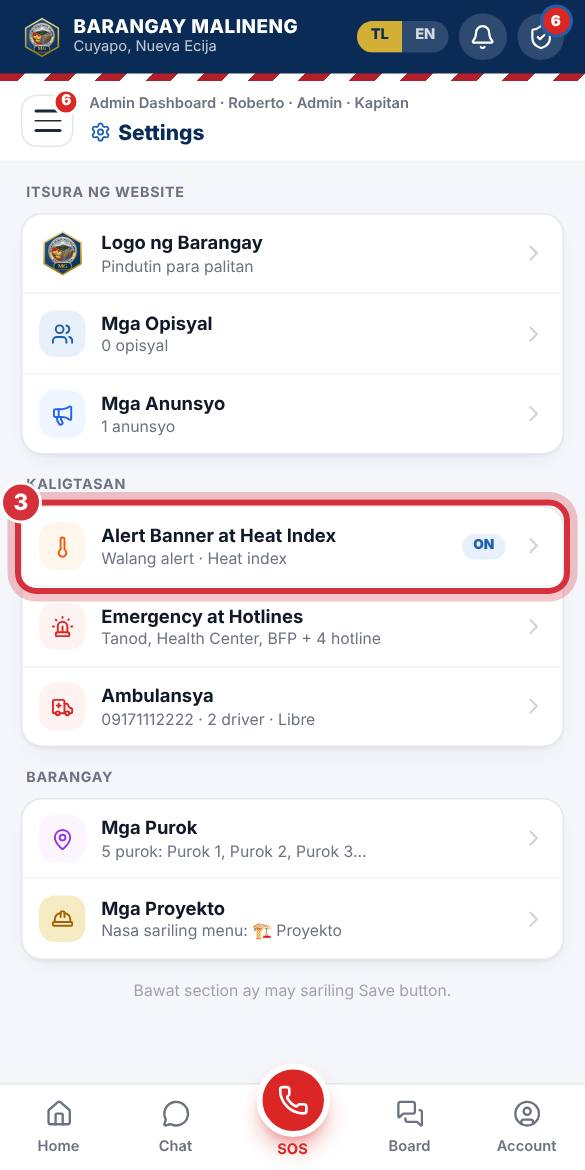
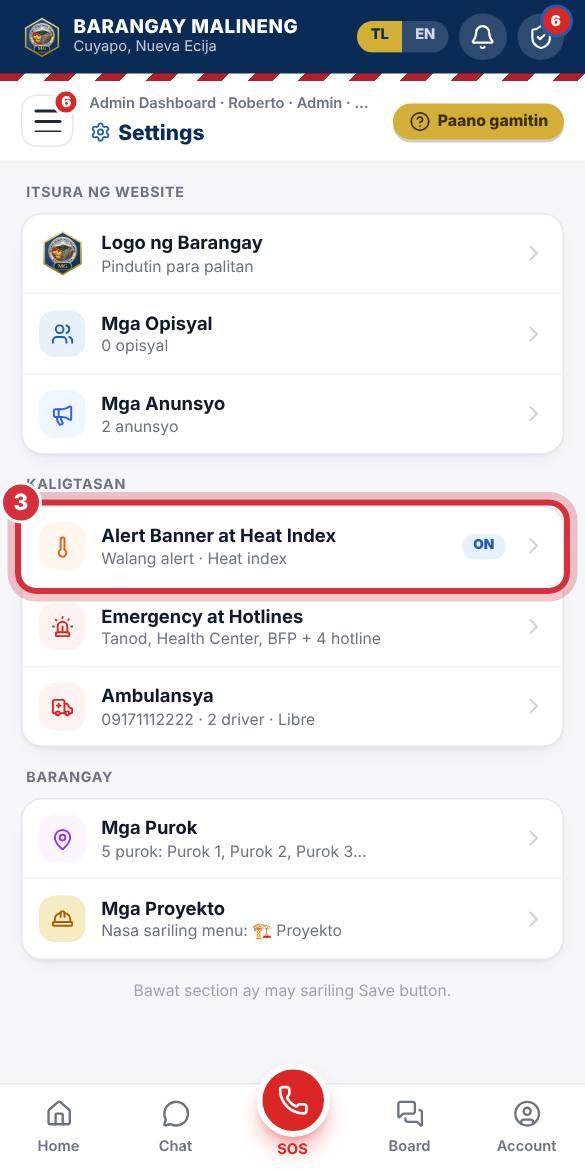
Home announcements: optional end date, and ended ones disappear from the dashboard
Claude-Session: https://claude.ai/code/session_013F6BoHnbdQ1Ng6Eh2JznKS

diff --git a/malineng-web/src/components/admin/AdminSettings.tsx b/malineng-web/src/components/admin/AdminSettings.tsx
@@ -161,7 +161,9 @@ function OfficialsSection({ settings, onBack }: { settings: Settings; onBack: ()
 function AnnouncementsSection({ settings, onBack }: { settings: Settings; onBack: () => void }) {
   const [list, setList] = useState(settings.announcements);
   const { saving, run } = useSaver(onBack);
-  const save = () => run(() => saveSettings({ announcements: list.filter((a) => a.title.trim()) }, "Mga Anunsyo"), "Na-save ang Mga Anunsyo.");
+  // An empty end date is not saved at all (the announcement then stays until it is removed).
+  const clean = (a: Settings["announcements"][number]) => ({ title: a.title, body: a.body, date: a.date, ...(a.until ? { until: a.until } : {}) });
+  const save = () => run(() => saveSettings({ announcements: list.filter((a) => a.title.trim()).map(clean) }, "Mga Anunsyo"), "Na-save ang Mga Anunsyo.");
   return (
     <SectionPage title="Mga Anunsyo" icon={Megaphone} onBack={onBack} onSave={save} saving={saving}>
       <Button variant="outline" full onClick={() => setList([{ title: "", body: "", date: todayISO() }, ...list])}>
@@ -176,6 +178,14 @@ function AnnouncementsSection({ settings, onBack }: { settings: Settings; onBack
           </div>
           <Input label="Pamagat" value={a.title} onChange={(e) => setList(list.map((x, j) => (j === i ? { ...x, title: e.target.value } : x)))} />
           <Input label="Petsa" type="date" value={a.date} onChange={(e) => setList(list.map((x, j) => (j === i ? { ...x, date: e.target.value } : x)))} />
+          <Input
+            label="Mawawala sa Home pagkatapos ng (optional)"
+            type="date"
+            value={a.until ?? ""}
+            onChange={(e) => setList(list.map((x, j) => (j === i ? { ...x, until: e.target.value } : x)))}
+            hint="Piliin ang huling araw na lalabas. Kinabukasan, kusa na itong mawawala sa Home. Iwanang blangko kung gusto mong manatili hanggang burahin mo."
+          />
+          {a.until && a.until < todayISO() && <p className="rounded-lg bg-gray-100 px-3 py-1.5 text-xs font-bold text-gray-600">TAPOS NA: wala na ito sa Home. Burahin o palitan ang petsa.</p>}
           <Textarea label="Detalye" value={a.body} onChange={(e) => setList(list.map((x, j) => (j === i ? { ...x, body: e.target.value } : x)))} />
         </Card>
       ))}

diff --git a/malineng-web/src/app/page.tsx b/malineng-web/src/app/page.tsx
@@ -23,7 +23,7 @@ import { useCollection } from "@/lib/useCollection";
 import { APPOINTMENT_STATUS_LABEL, BARANGAY_CITY } from "@/lib/constants";
 import { REQUEST_STATUS_LABEL, formatTime12 } from "@/lib/ambulance";
 import { formatDate, sortNewest, telHref, todayISO, tsToMillis } from "@/lib/format";
-import type { AmbulanceRequest, Appointment, InfraProject, Listing } from "@/lib/types";
+import { isAnnouncementActive, type AmbulanceRequest, type Appointment, type InfraProject, type Listing } from "@/lib/types";
 import { ProgressBar, ProjectStatusPill, compareProjects } from "@/components/ProjectBits";
 import { LinkButton, Modal, SectionTitle, Spinner } from "@/components/ui";
 import { AdminShieldLink } from "@/components/AdminShieldLink";
@@ -150,6 +150,8 @@ function SummaryCard() {
 export default function HomePage() {
   const { profile, isSuperAdmin, isVerified } = useAuth();
   const { settings, loading } = useSettings();
+  // Announcements whose last day has passed are no longer shown on Home (an admin can still see them in Settings).
+  const activeAnnouncements = useMemo(() => settings.announcements.filter((a) => isAnnouncementActive(a, todayISO())), [settings.announcements]);
   const xmas = useXmas();
   const [hello, setHello] = useState("Magandang araw");
   const [stats, setStats] = useState<PublicStats | null>(null);
@@ -338,10 +340,10 @@ export default function HomePage() {
       ) : (
         <>
           {/* Announcements carousel */}
-          {settings.announcements.length > 0 && (
+          {activeAnnouncements.length > 0 && (
             <>
               <SectionTitle>Mga Anunsyo</SectionTitle>
-              <AnnouncementRotator items={settings.announcements} />
+              <AnnouncementRotator items={activeAnnouncements} />
             </>
           )}
 

diff --git a/malineng-web/src/lib/types.ts b/malineng-web/src/lib/types.ts
@@ -252,6 +252,13 @@ export interface Announcement {
   title: string;
   body: string;
   date: string;
+  /** Last day it shows on Home (YYYY-MM-DD). Empty or missing = it stays until an admin removes it. */
+  until?: string;
+}
+
+/** True while the announcement should show on Home: no end date, or today is not past it. */
+export function isAnnouncementActive(a: Announcement, today: string): boolean {
+  return !a.until || a.until >= today;
 }
 
 export interface Project {
